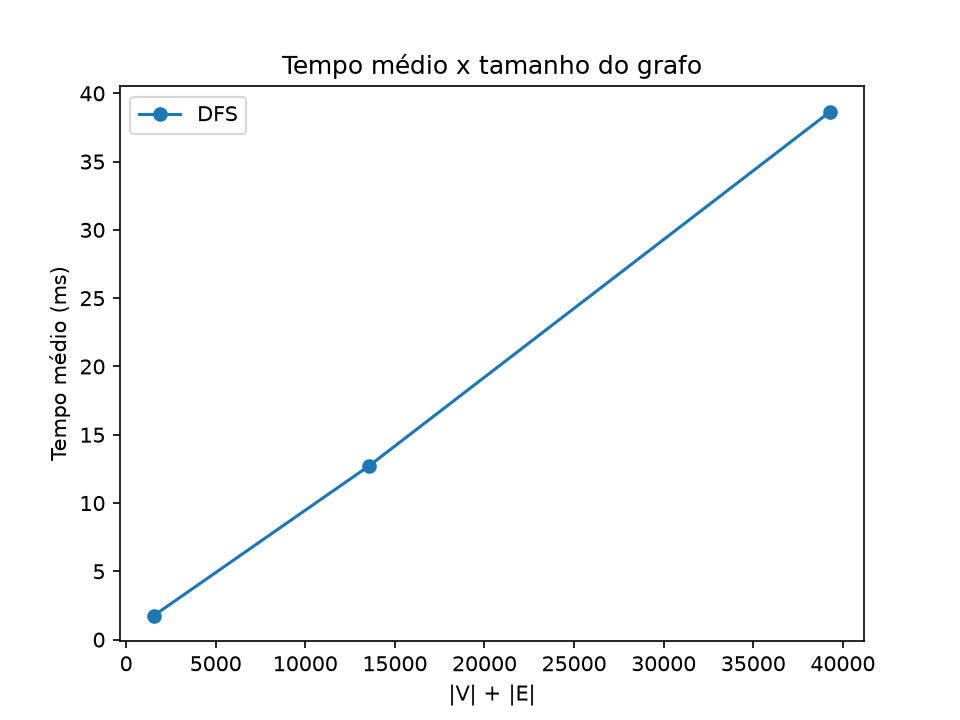
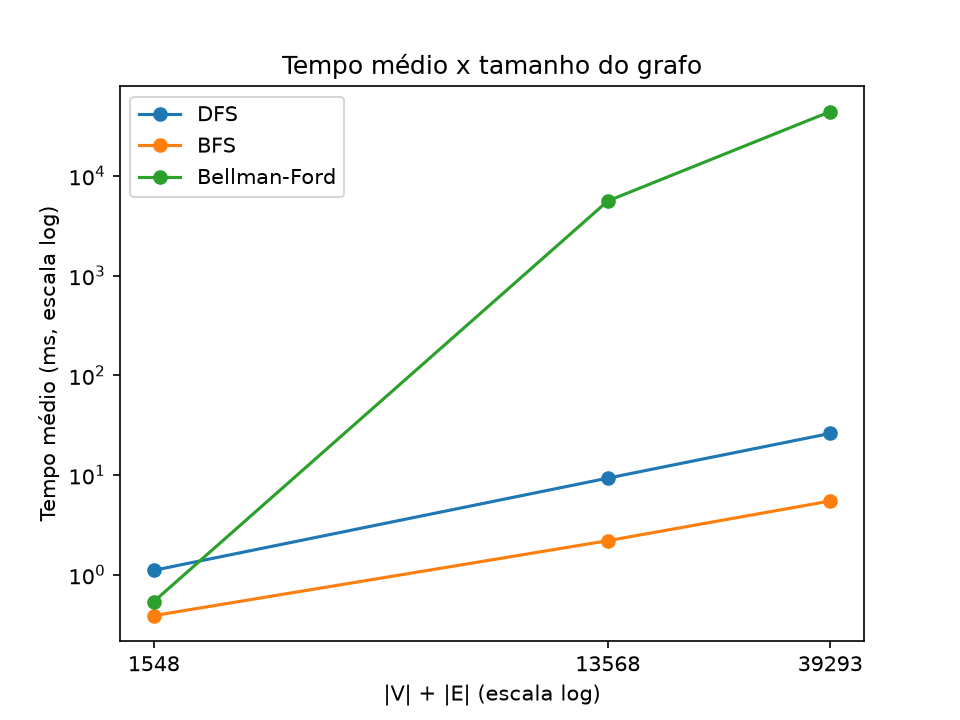
feat(parte2): adiciona BFS e Bellman-Ford ao benchmark (P4b)
Mede DFS, BFS e Bellman-Ford em 10/50/100% e compara o tempo com o custo do caso medido.

diff --git a/src/benchmark.py b/src/benchmark.py
@@ -2,7 +2,10 @@
 
 - tempo médio de 5 execuções de cada algoritmo
 - escalabilidade em 10% / 50% / 100% dos nós, comparada com a complexidade teórica
-  pela coluna tempo_por_elemento_us = tempo / (V + E), em microssegundos
+  pela coluna tempo_por_custo_teorico_ms = tempo / custo do caso medido
+- a DFS percorre o grafo inteiro (floresta); BFS e Bellman-Ford partem da carteira com
+  mais arcos de saída de cada amostra, então não fazem a mesma tarefa que a DFS
+- status OK no Bellman-Ford significa parada antecipada: o tempo não mede V * E
 """
 # [IA] Claude Code – benchmark da Parte 2
 
@@ -17,14 +20,32 @@ matplotlib.use("Agg")  # só grava o arquivo, sem abrir janela
 import matplotlib.pyplot as plt
 
 from src.carga_parte2 import carregar_grafo
-from src.graphs.algorithms import dfs
+from src.graphs.algorithms import bellman_ford, bfs, dfs
 from src.graphs.graph import Grafo
 
 SEED = 42
 FRACOES = [0.1, 0.5, 1.0]
 
-# Cada novo algoritm realizado, adiciona aqui
-ALGORITMOS = {"DFS": (dfs, "O(V + E)")}
+
+def custo_busca(grafo, retorno):
+    """V + arcos percorridos: a DFS percorre todos; a BFS, só os dos nós alcançados."""
+    return grafo.ordem() + sum(grafo.grau_saida(no) for no in retorno["ordem"])
+
+
+def custo_bellman_ford(grafo, retorno):
+    """V * E, que só vale com ciclo negativo; sem ele o algoritmo para antes (None)."""
+    if retorno["status"] == "CICLO_NEGATIVO":
+        return grafo.ordem() * grafo.tamanho()
+    return None
+
+
+# Cada novo algoritmo realizado, adiciona aqui:
+# nome: (função, precisa de origem, complexidade, custo do caso medido)
+ALGORITMOS = {
+    "DFS": (dfs, False, "O(V + E)", custo_busca),
+    "BFS": (bfs, True, "O(V + E)", custo_busca),
+    "Bellman-Ford": (bellman_ford, True, "O(V * E)", custo_bellman_ford),
+}
 
 
 def amostrar(grafo, fracao):
@@ -32,6 +53,11 @@ def amostrar(grafo, fracao):
     k = round(fracao * grafo.ordem())
     nos = random.Random(SEED).sample(grafo.nos(), k)
     return grafo.subgrafo_induzido(nos)
+
+
+def maior_grau_saida(grafo):
+    """Origem usada por BFS e Bellman-Ford: o nó com mais arcos de saída."""
+    return max(grafo.nos(), key=grafo.grau_saida)
 
 
 def tempo_medio(funcao, grafo, repeticoes=5):
@@ -44,20 +70,32 @@ def tempo_medio(funcao, grafo, repeticoes=5):
     return sum(tempos) / repeticoes
 
 
-def executar_benchmark(pasta, saida):
+def contar_alcancados(retorno):
+    """Quantos nós o algoritmo alcançou (BFS e DFS têm `ordem`; o Bellman-Ford, distâncias)."""
+    if "ordem" in retorno:
+        return len(retorno["ordem"])
+    return sum(d != float("inf") for d in retorno["distancia"].values())
+
+
+def executar_benchmark(pasta, saida, fracoes=FRACOES):
     """Mede cada algoritmo em cada fração e grava parte2_report.json e o gráfico."""
     grafo = carregar_grafo(Grafo(), pasta)
     resultados = []
-    for nome, (funcao, complexidade) in ALGORITMOS.items():
-        for fracao in FRACOES:
+    for nome, (funcao, usa_origem, complexidade, custo) in ALGORITMOS.items():
+        for fracao in fracoes:
             g = amostrar(grafo, fracao)
-            v, e = g.ordem(), g.tamanho()
-            t = tempo_medio(funcao, g)
+            origem = maior_grau_saida(g) if usa_origem else None
+            ultimo = {}  # guarda o retorno da última execução, para o relatório
+            t = tempo_medio(lambda gr: ultimo.update(funcao(gr, origem)), g)
+            custo_caso = custo(g, ultimo)
             resultados.append({
-                "algoritmo": nome, "fracao": fracao, "nos": v, "arestas": e,
+                "algoritmo": nome, "fracao": fracao, "nos": g.ordem(), "arestas": g.tamanho(),
                 "complexidade": complexidade,
+                "origem": origem,
+                "alcancados": contar_alcancados(ultimo),
+                "status": ultimo.get("status", "-"),
                 "tempo_medio_ms": round(t * 1000, 2),
-                "tempo_por_elemento_us": round(t / (v + e) * 1_000_000, 2),
+                "tempo_por_custo_teorico_ms": round(t / custo_caso * 1000, 6) if custo_caso else None,
             })
     Path(saida).mkdir(parents=True, exist_ok=True)
     with open(Path(saida) / "parte2_report.json", "w", encoding="utf-8") as f:
@@ -74,9 +112,13 @@ def gerar_grafico(resultados, saida):
         x = [r["nos"] + r["arestas"] for r in linhas]
         y = [r["tempo_medio_ms"] for r in linhas]
         plt.plot(x, y, "o-", label=nome)
+    plt.xscale("log")  # a comparação com a teoria de cada algoritmo está na coluna de custo do JSON
+    plt.yscale("log")  # o Bellman-Ford fica ordens de grandeza acima dos outros
+    plt.minorticks_off()
+    plt.xticks(x, [str(valor) for valor in x])  # só os três tamanhos medidos
     plt.title("Tempo médio x tamanho do grafo")
-    plt.xlabel("|V| + |E|")
-    plt.ylabel("Tempo médio (ms)")
+    plt.xlabel("|V| + |E| (escala log)")
+    plt.ylabel("Tempo médio (ms, escala log)")
     plt.legend()
     plt.savefig(Path(saida) / "benchmark_escalabilidade.png", dpi=150)
     plt.close()

diff --git a/tests/test_benchmark.py b/tests/test_benchmark.py
@@ -1,14 +1,44 @@
 """Benchmark da Parte 2 (P4b)."""
-# teste mínimo do benchmark
+# [IA] Claude Code – testes do benchmark
 
 import json
 
-from src.benchmark import executar_benchmark
+import pytest
+
+from src.benchmark import (FRACOES, custo_bellman_ford, custo_busca, executar_benchmark, maior_grau_saida,
+                           tempo_medio)
 from src.carga_parte2 import PASTA_PADRAO
+from src.graphs.graph import Grafo
 
 
-def test_relatorio_tem_dfs_nas_tres_fracoes(tmp_path):
-    executar_benchmark(PASTA_PADRAO, tmp_path)
+def test_relatorio_compara_os_algoritmos(tmp_path):
+    # só 10% dos nós: o Bellman-Ford leva cerca de 45 s por execução no grafo inteiro
+    executar_benchmark(PASTA_PADRAO, tmp_path, fracoes=[0.1])
     relatorio = json.loads((tmp_path / "parte2_report.json").read_text(encoding="utf-8"))
-    assert [(r["algoritmo"], r["fracao"]) for r in relatorio] == [("DFS", 0.1), ("DFS", 0.5), ("DFS", 1.0)]
+    assert FRACOES == [0.1, 0.5, 1.0]
+    assert [r["algoritmo"] for r in relatorio] == ["DFS", "BFS", "Bellman-Ford"]
+    dfs, bfs, bellman_ford = relatorio
+    assert dfs["origem"] is None and dfs["alcancados"] == dfs["nos"]
+    assert dfs["tempo_por_custo_teorico_ms"] == pytest.approx(
+        dfs["tempo_medio_ms"] / (dfs["nos"] + dfs["arestas"]), rel=0.05)
+    assert bfs["origem"] == bellman_ford["origem"]
+    assert bfs["alcancados"] == bellman_ford["alcancados"]
+    assert bellman_ford["status"] == "OK" and bellman_ford["tempo_por_custo_teorico_ms"] is None
     assert (tmp_path / "benchmark_escalabilidade.png").exists()
+
+
+def test_tempo_medio_roda_5_vezes():
+    chamadas = []
+    tempo_medio(chamadas.append, "grafo")
+    assert len(chamadas) == 5
+
+
+def test_origem_e_custos():
+    grafo = Grafo()
+    grafo.adicionar_aresta("a", "b", 1)
+    grafo.adicionar_aresta("c", "a", 1)
+    grafo.adicionar_aresta("c", "d", 1)
+    assert maior_grau_saida(grafo) == "c"
+    assert custo_busca(grafo, {"ordem": ["a", "b"]}) == 4 + 1  # V + o único arco percorrido
+    assert custo_bellman_ford(grafo, {"status": "CICLO_NEGATIVO"}) == 4 * 3
+    assert custo_bellman_ford(grafo, {"status": "OK"}) is None

diff --git a/docs/REGISTRO_IA.md b/docs/REGISTRO_IA.md
@@ -29,3 +29,5 @@ Exigido pelo enunciado: todo uso de IA é declarado aqui e na `DECLARACAO_IA.pdf
 | 06/11/2026 | Thomaz | ChatGPT | Sugestão e escrita de casos de teste para Bellman-Ford, incluindo pesos negativos, ciclos negativos e nós inalcançáveis | `tests/test_bellman_ford.py` | Permitido (revisão de código e testes unitários) |
 | 06/11/2026 | Thomaz | Codex | Correção do acento na mensagem de origem inválida e adição de testes de regressão para n−1 passadas, ordem dos arcos do ciclo, custo de ciclo formado antes da verificação final e ciclo de custo zero | `src/graphs/algorithms.py`, `tests/test_bellman_ford.py` | Permitido (revisão de código e testes unitários) |
 | 06/11/2026 | Davi | Claude Code | Revisão do texto de resultados de BFS/DFS escrito pelo grupo: conferência dos números com os JSONs, apontamento de erros e lacunas e fornecimento dos valores por camada. Inserção do texto no relatório sem alterar a redação, ajustando só os níveis de título e incluindo um título de seção | `docs/relatorio/parte2.md` | Permitido (revisão de texto) |
+| 09/11/2026 | Vagner | Claude Code | Benchmark da Parte 2 (P4b): inclusão de BFS e Bellman-Ford, colunas de origem, alcançados, status e tempo/custo do caso medido, e testes do benchmark reescritos. Escolhas feitas pela IA: origem na carteira de maior grau de saída, escala log no gráfico e fórmula do custo medido. Usa os algoritmos do grupo, sem gerar nem alterar `algorithms.py` | `src/benchmark.py`, `tests/test_benchmark.py`, `out/parte2/parte2_report.json`, `out/parte2/benchmark_escalabilidade.png` | Permitido (medição/IO) — ver nota: origem, escala e custo foram escolhidos pela IA |
+| 09/11/2026 | Vagner | Claude Code | Revisão do benchmark por agentes independentes: leitura do diff, execução dos testes, medições fora do repositório e conferência de teoria × prática; correções aplicadas a partir dos apontamentos (custo por caso medido, retirada do segundo gráfico e simplificações). Nenhum código de algoritmo gerado | `src/benchmark.py`, `tests/test_benchmark.py` (revisão) | Permitido (revisão de código e testes) |
